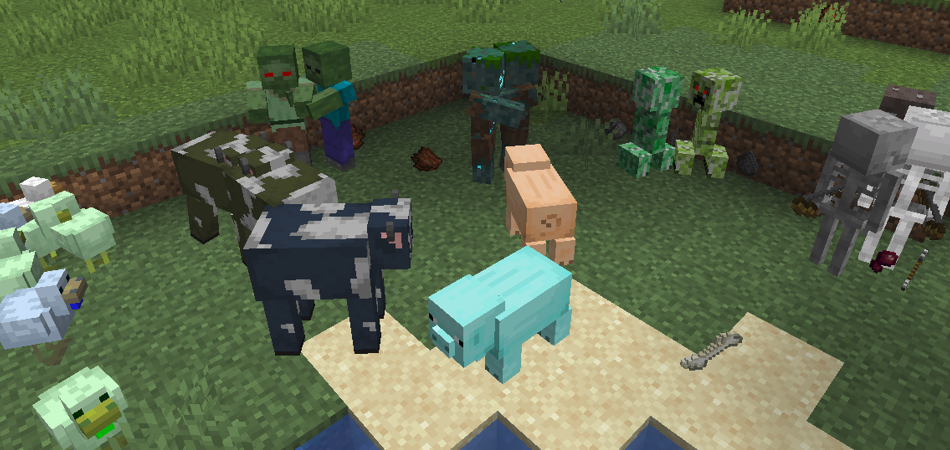
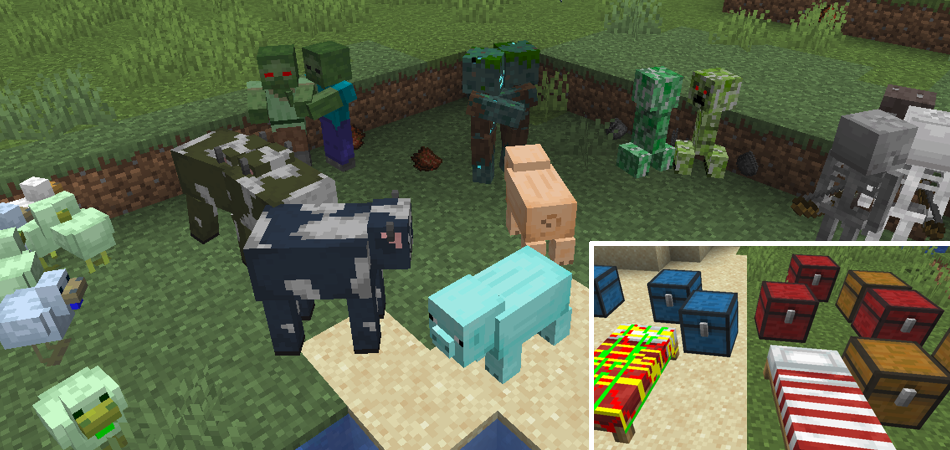
text updates

Changed region(s): [[0.6105, 0.5289, 1.0, 1.0]]

diff --git a/readMeAssets/SKINS.md b/readMeAssets/SKINS.md
@@ -1,7 +1,7 @@
 <img src="title.png" alt="Entity Texture Features Title" width="650"/>
 
 ___
-### [[Discord]](https://discord.gg/rURmwrzUcz) - [[CurseForge]](https://www.curseforge.com/minecraft/mc-mods/entity-texture-features-fabric) - [[Modrinth]](https://modrinth.com/mod/entitytexturefeatures) - [[Report Issues]](https://github.com/Traben-0/EmissiveMod/issues) - [[Donate]](https://www.paypal.com/donate/?business=PLB862YH8UXML&no_recurring=0&currency_code=AUD)
+### [[Discord]](https://discord.gg/rURmwrzUcz) - [[CurseForge]](https://www.curseforge.com/minecraft/mc-mods/entity-texture-features-fabric) - [[Modrinth]](https://modrinth.com/mod/entitytexturefeatures) - [[Report Issues]](https://github.com/Traben-0/EmissiveMod/issues) - [[Donate]](https://ko-fi.com/traben)
 ___
 # 🎨  Player skin features Guide
 <img src="skins1.png" alt="img" width="450"/><br>
@@ -225,8 +225,10 @@ Capes are supported for players by this mod in 3 different ways
 <img src="customCape.png" alt="img" width="250"/><img src="modskins/cape.png" alt="img" width="64"/>
 
 This mod supports placing a custom cape texture in your skin file you upload to Mojang.
-- to select your custom cape to load you simply need to put a pink #1 pixel
-  in the #5 slot of the choice box in your skin and your custom cape will show to anyone with this mod and player features enabled.
+
+- to select your custom cape to load you simply need to put a pink #1 pixel in the #5 slot of the choice box in your
+  skin and your custom cape will show to anyone with this mod and player features enabled.
+- This capes will also be checked for emissive and enchanted pixels as per the skin settings.
 - you can see an example skin file above to download and use.
 - For now your Elytra will be unaffected and will look like the default
 - Below is a visual guide of how the cape texture is 'cut up' and placed in the 5 orange rectangles in the skin file  
@@ -236,7 +238,8 @@ This mod supports placing a custom cape texture in your skin file you upload to 
 ### Third party capes
 
 - because I'm nice I am supporting other cape options you may choose that have their own benefits   
-  *(This support is provided bby the servers of these third party services, they may not always support this usage)*
+  *(This support is provided by the servers of these third party services, they may not always support this usage)*
+- These capes will also be checked for emissive and enchanted pixels as per the skin settings.
 - Firstly you can always install the Third Party Cape Mod Itself if you want to, otherwise see below.
 
 #### Minecraftcapes.net Cape
@@ -253,7 +256,7 @@ I am supporting the people who have donated to the Optifine Dev
 ---
 # To confusing or not working?
 
-join the [[Discord]](https://discord.gg/rURmwrzUcz) and I'll be happy to help
+join the [[Discord]](https://discord.gg/rURmwrzUcz) and We'll be happy to help
 
 
 

diff --git a/readMeAssets/RANDOM_GUIDE.md b/readMeAssets/RANDOM_GUIDE.md
@@ -68,25 +68,43 @@ an example of the "teams" property follows:
 *(for example a Zombie spawned in a desert will take the "desert skin" and it will not change to the "forest skin" 
 when they walk into a forest biome.)*  
 - This can be disabled by the config option "Property update restrictions" for each of these properties individually.  
-*(if update restrictions are disabled for biomes, the above example Zombie with the "desert skin" would indeed change to the "forest skin"
-upon entering a forest biome)*
+  *(if update restrictions are disabled for biomes, the above example Zombie with the "desert skin" would indeed change
+  to the "forest skin"
+  upon entering a forest biome)*
 
-- Entities with multiple textures like Wolves, Bees or Ghasts should be given the same amount of random variant textures for 
-each texture variant
+- Entities with multiple textures like Wolves, Bees or Ghasts should be given the same amount of random variant textures
+  for each texture variant
 
 ---
+
 ## Special Cases
+
 <table>
+<tr>
+<td>
+<img src="blockEntityCustom.png" alt="img" width="128"/>
+</td>
+<td>
+
+- Chests and beds are Block Entities and can be customized with the same properties format as optifine does for other
+  entities
+- *Note:* Most Block Entity optimization fabric mods like ***Enhanced Block Entities*** or ***BetterBeds***, will
+  disable this feature in favour of faster rendering
+
+</td>
+</tr>
 <tr>
 <td>
 <img src="https://static.wikia.nocookie.net/minecraft_gamepedia/images/9/9a/Trident.png/revision/latest/scale-to-width-down/300?cb=20200106005732" alt="img" width="128"/>
 </td>
 <td>
 
-- Tridents support custom textures, as of *[V2.3.0]*, a trident item named *"Bobby's Trident"* will use the 
-texture *"trident_bobbys_trident.png"*
-- A named trident will match any texture of the format *trident_"customName".png*, with customName being 
-the name of the trident with spaces replaces with "_" and any non letters ignored.
+<img src="tridents.png" alt="img" width="450"/>
+
+- Tridents support custom textures, as of *[V2.3.0]*, a trident item named *"Bobby's Trident"* will use the texture *"
+  trident_bobbys_trident.png"*
+- A named trident will match any texture of the format *trident_"customName".png*, with customName being the name of the
+  trident with spaces replaces with "_" and any non letters ignored.
 
 </td>
 </tr>
@@ -109,8 +127,8 @@ of the respective mooshroom.
 <td>
 
 - Custom elytras are handled by the CIT resewn mod, and may utilise ETF emissive textures only
-- You can also use the Player skin feature options for custom capes to have a custom elytra, though this does not yet
-  support emissive textures
+- You can also use the Player skin feature options for custom capes to have a custom elytra, this supports emissive
+  elytras
 
 </td>
 </tr>

diff --git a/README.md b/README.md
@@ -5,7 +5,7 @@ ___
 ### mostly using the Optifine Format but compatible with Sodium :)
 #### ~ Now with 1.16.5  -> 1.18.2
 ___
-### [[Discord]](https://discord.gg/rURmwrzUcz) - [[CurseForge]](https://www.curseforge.com/minecraft/mc-mods/entity-texture-features-fabric) - [[Modrinth]](https://modrinth.com/mod/entitytexturefeatures) - [[~~Compatibility List~~]]() - [[Report Issues]](https://github.com/Traben-0/EmissiveMod/issues) - [[Donate (Ko-Fi)]](https://ko-fi.com/traben)
+### [[Discord]](https://discord.gg/rURmwrzUcz) - [[CurseForge]](https://www.curseforge.com/minecraft/mc-mods/entity-texture-features-fabric) - [[Modrinth]](https://modrinth.com/mod/entitytexturefeatures) - [[Report Issues]](https://github.com/Traben-0/EmissiveMod/issues) - [[Donate (Ko-Fi)]](https://ko-fi.com/traben)
 ___
 <img src="readMeAssets/main.png" alt="img" width="650"/>
 
@@ -23,7 +23,6 @@ For more Fabric Optifine alternatives Click
 (Customised just like Optifine, by Biome, Name, Height, etc. with even more properties)
 - 💡 Emissive/Glowing entity textures just like Optifine & compatible with Optifine Resourcepacks.
 - 😑 Blinking mobs
-- 🔱 Custom Trident textures
 - ⚗ Alternate potion visuals for mobs
 - 🎨 Player Skin Features & Additions, including support for most of the above features 
 
@@ -96,15 +95,6 @@ depending on what is available
 next to the blinking texture, see below:  
   <img src="readMeAssets/blinkProperties.png" alt="img" width="300"/>
 
----
-## 🔱 Custom Trident textures
-<img src="readMeAssets/tridents.png" alt="img" width="650"/>
-
-- Allows Trident textures to be set by a Resource-pack, so they can be customized by name
-- Tridents support custom and emissive textures, as of [V2.3.0], a trident item named "Bobby's Trident" will use the
-  texture "trident_bobbys_trident.png", ignoring non-letters and changing spaces to "_"
-- This is a simple implementation with an Option to disable it as CIT resewn mod may implement in the future. and has
-  more powerful customizations when items are involved
 
 ---
 ## ⚗ Alternate potion effects

diff --git a/CHANGE_LOG.md b/CHANGE_LOG.md
@@ -14,7 +14,7 @@ Improvements:
 Changed:
 
 - the shader z-fighting fix no longer expands the model leading to weird rendering, emissives should no longer z-fight
-  for most mobs while using shaders. this has not been expanded to all use cases yet and is still in development
+  for most mobs while using shaders.(option has been removed)
 - illegal identifier fix changed to only affect image files, cause of litematica conflicts
 - names property will also match against the whole line ((names.1=john smith) will check the names {"john", "smith" & "
   john smith"})
@@ -33,8 +33,8 @@ Added:
 - custom horse armour & markings support, "horse2.png will try to use horse_armor2.png & horse_marking2.png"
 - added function to ease access to skin features (a setting in the config/modmenu settings can be enabled to apply a
   skin feature guide image to a copy of your skin)
-- supported emissive and enchanted capes when set in skin feature choices.
-- parrots showing custom textures on shoulders
+- supported emissive and enchanted capes to match skin when set in skin feature choices.
+- parrots showing custom & emissive textures on shoulders
 - warnings in mod menu config to inform of and prevent mod incompatibilities, as well as an option to ignore these
   warnings and override them
 

diff --git a/readMeAssets/EMISSIVE_GUIDE.md b/readMeAssets/EMISSIVE_GUIDE.md
@@ -19,6 +19,9 @@
 - Elytra & Armour emissives have CIT Resewn mod support and will apply based on the CIT texture
 - Tridents support emissive textures customized via the special case rules in the Random / Custom mob Guide
 
+- Block entities like: Chests, Beds, Bells, Enchanting table & Lectern books, all support emissive textures with ETF,
+  other blocks will need the in-development Continuity mod's emissive blocks feature
+
 - Player Skin Features support emissive textures, see [Player Skin Features Guide](SKINS.md)
 
 ### Emissive textures can render in two different ways set by the config or mod-menu options the two images below show the two rendering modes:
